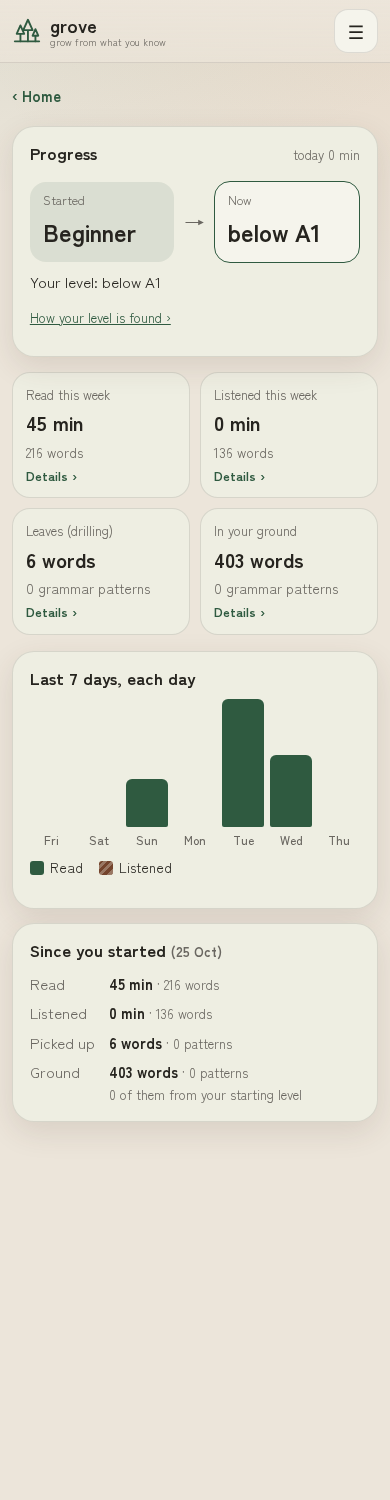
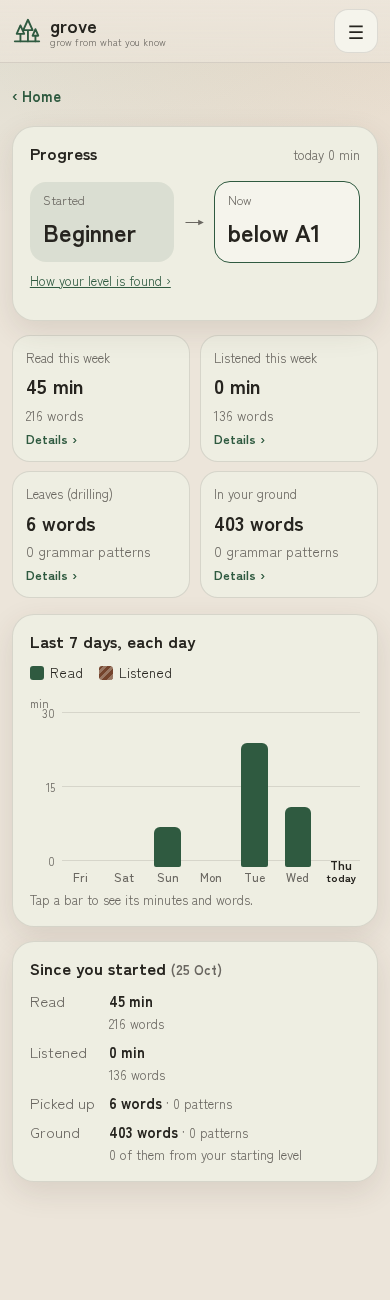
regen(client): FR-924 chart as sketched (question-pages/87); notes B-30…B-32
Claude-Session: https://claude.ai/code/session_01Q7ygod5uhQ4Fxjud2gQJY9

diff --git a/public/assets/grove.css b/public/assets/grove.css
@@ -598,7 +598,7 @@ button.link-button { background: none; border: 0; padding: 0; min-height: 44px; 
 .levels { display: flex; align-items: center; gap: .6rem; margin: .4rem 0; }
 .lv { flex: 1; display: flex; flex-direction: column; gap: .1rem; padding: .6rem .8rem; border-radius: 16px; background: var(--soft); min-width: 0; }
 .lv.now { background: var(--card2, var(--soft)); border: 1px solid var(--accent); }
-.lv .k { font-size: .78rem; color: var(--muted); }
+.lv .k { font-size: .78rem; color: var(--ink); opacity: .8; }
 .lv .v { font-size: 1.5rem; font-weight: 700; }
 .lv-arrow { font-size: 1.3rem; color: var(--muted); }
 .stat-grid { display: grid; grid-template-columns: repeat(2, minmax(0, 1fr)); gap: .6rem; margin: 0 0 1rem; }
@@ -644,3 +644,18 @@ button.week-bar { display: flex; flex-direction: column; justify-content: flex-e
 .day-list li, .item-list li { display: flex; flex-wrap: wrap; gap: .2rem .7rem; padding: .4rem 0; border-bottom: 1px solid var(--line); }
 .day-list .d { font-weight: 700; min-width: 4rem; }
 .item-list .when { margin-left: auto; }
+.week-plot { position: relative; display: grid; grid-template-columns: 2rem minmax(0, 1fr); height: 190px; margin: .6rem 0 .3rem; }
+.week-axis { position: relative; height: calc(100% - 2.6rem); margin-top: 1.2rem; font-size: .72rem; color: var(--muted); font-variant-numeric: tabular-nums; }
+.week-axis .unit { position: absolute; top: -1.2rem; left: 0; }
+.week-axis .tick { position: absolute; right: .4rem; transform: translateY(50%); }
+.week-grid { position: absolute; left: 2rem; right: 0; top: 1.2rem; height: calc(100% - 2.6rem); pointer-events: none; }
+.week-grid .gridline { position: absolute; left: 0; right: 0; border-top: 1px solid var(--line); }
+.week-plot .week-bars { height: 100%; margin: 0; grid-column: 2; }
+.week-bar .bar-area { display: flex; align-items: flex-end; justify-content: center; height: calc(100% - 2.6rem); margin-top: 1.2rem; }
+.week-bar .stack-wrap { position: relative; display: flex; width: 70%; max-width: 2.6rem; height: var(--h); min-height: 2px; }
+.week-plot .week-bar .stack { width: 100%; height: 100%; }
+.week-bar .total { position: absolute; bottom: 100%; left: 0; right: 0; text-align: center; font-size: .75rem; font-weight: 700; color: var(--ink); padding-bottom: .1rem; font-variant-numeric: tabular-nums; }
+.week-bar .bar-label { display: flex; flex-direction: column; align-items: center; line-height: 1.15; }
+.week-bar .bar-label.today { font-weight: 700; color: var(--ink); }
+.week-bar .today-tag { font-size: .68rem; font-weight: 700; }
+.week-readout { margin: .3rem 0 0; }

diff --git a/public/progress.html b/public/progress.html
@@ -21,7 +21,7 @@
 <section class="card progress-head">
 <div class="card-head"><h2>Progress</h2><span class="small muted" id="progress-today"></span></div>
 <div class="levels" id="progress-levels"></div>
-<p id="progress-level"></p>
+<p class="message bad" id="progress-error" role="alert" hidden></p>
 <p class="small"><a href="#level" id="to-level">How your level is found ›</a></p>
 </section>
 <div class="stat-grid" id="progress-stats"></div>

diff --git a/specs/009-home-sessions/spec.md b/specs/009-home-sessions/spec.md
@@ -261,7 +261,7 @@ MUST for must-priority combined requirements, SHOULD for should-priority ones. E
 
 **Progress** (B-27; sketch picked on question-pages/87)
 
-- **FR-924** (RQ-448, RQ-03; N-29, N-36, N-42): **Progress** (`/progress`) MUST show, in this order (the picked sketch, version B, `prototypes/sketches/2026-10-29-progress/`): (1) a card with "Progress", today's minutes ("today N min", all input as G-04 FR-415 counts it), and two boxes, **Started** (the starting level, or "Beginner", and the day it was set) → **Now** (FR-414's level, or "below A1"; grove keeps no day for reaching it), with "How your level is found ›" opening the level details (each level's share of words in the ground and the 90% rule); (2) four cards, two per row up to 600 px and four in a row above, each a button opening its details: **Read this week** and **Listened this week** (minutes in the last 7 days ending today, with the words of the texts read or heard underneath), **Leaves (drilling)** (the drilled leaves now: words and phrases, with grammar patterns underneath) and **In your ground** (words and phrases in the ground, with grammar patterns underneath); (3) "Last 7 days, each day": one bar per day ending today, read and listened stacked, told apart by a legend and a pattern on listening as well as by colour, a tap on a bar showing that day's minutes and words; (4) "Since you started (date)": read and listened (minutes, words), ever picked up (words, patterns: every leaf ever drilled, fallen ones included) and the ground (words, patterns) with "N of them from your starting level". The details are: the days (each of the 7 days, read and listened, minutes and words); words and patterns, with Leaves and Ground tabs (counts, "+N in the last 7 days", the latest picked up or fallen, and for the ground a bar of where its words came from: the starting level, known when read, fell from leaves); the level. Words are counted as each text's words once, when it is first finished; minutes as FR-925 records them. A new learner sees zeros and "Nothing yet" with a way to Discover. Replaces G-04 FR-415's Progress part (the 14 day bars, the ground's size and the drilled count). The Progress tile's line is "What you've read and heard, your words, and your level since you started."
+- **FR-924** (RQ-448, RQ-03; N-29, N-36, N-42): **Progress** (`/progress`) MUST show, in this order (the picked sketch, version B, `prototypes/sketches/2026-10-29-progress/`): (1) a card with "Progress", today's minutes ("today N min", all input as G-04 FR-415 counts it), and two boxes, **Started** (the starting level, or "Beginner", and the day it was set) → **Now** (FR-414's level, or "below A1"; grove keeps no day for reaching it), with "How your level is found ›" opening the level details, and nothing else in the card (the old level line is gone; screen readers get the level from the two boxes) (each level's share of words in the ground and the 90% rule); (2) four cards, two per row up to 600 px and four in a row above, each a button opening its details: **Read this week** and **Listened this week** (minutes in the last 7 days ending today, with the words of the texts read or heard underneath), **Leaves (drilling)** (the drilled leaves now: words and phrases, with grammar patterns underneath) and **In your ground** (words and phrases in the ground, with grammar patterns underneath); (3) "Last 7 days, each day": the legend above; one bar per day ending today, read and listened stacked, told apart by a pattern on listening as well as by colour, on a minute scale with grid lines, each day's total minutes above its bar and today marked "today" under its name; "Tap a bar to see its minutes and words" under the chart, replaced by that day's minutes and words when a bar is tapped (question-pages/87, after the side-by-side); (4) "Since you started (date)": read and listened (minutes, with the words on a line under them), ever picked up (words, patterns: every leaf ever drilled, fallen ones included) and the ground (words, patterns) with "N of them from your starting level". The details are: the days (each of the 7 days, read and listened, minutes and words); words and patterns, with Leaves and Ground tabs (counts, "+N in the last 7 days", the latest picked up or fallen, and for the ground a bar of where its words came from: the starting level, known when read, fell from leaves); the level. Words are counted as each text's words once, when it is first finished; minutes as FR-925 records them. A new learner sees zeros and "Nothing yet" with a way to Discover. Replaces G-04 FR-415's Progress part (the 14 day bars, the ground's size and the drilled count). The Progress tile's line is "What you've read and heard, your words, and your level since you started."
 - **FR-925** (RQ-448, RQ-48; N-29, N-42): Input minutes (G-04 FR-415) MUST be recorded per kind as well as in total: **reading** while a reading text is in view (or a listening text shown as text), **listening** while a listening text is in listening mode or a session plays a text, and **other** (reviews, harder questions, the starting check) otherwise; the page reports the kind with each half minute. A leaf's **picked up** time is when it was first drilled. A migration keeps every learner's data: existing minutes count as reading, a leaf's picked-up time is its added time, and the starting level's day is the one already kept (constitution 4.13).
 
 **The way back** (addendum 006)

diff --git a/docs/regeneration-log.md b/docs/regeneration-log.md
@@ -65,3 +65,4 @@ One entry per `/regenerate` run.
 | 2026-10-29 | store | specs/009-home-sessions data model, migration 019 (B-27; FR-924, FR-925): input_days.read_seconds, listen_seconds (earlier minutes as reading); words.picked_at (drilled or fallen leaves: added_at); learner_settings.start_level_at (the account's creation) | `tests/store/store.test.mjs` 1 new | store (25) | 25 | 0 | committed |
 | 2026-10-29 | drill, demo | G-09 FR-924, FR-925 (B-27, question-pages/87; G-04 FR-415): `/api/progress` gives today, the level started and now with each level's share, the last 7 days read and listened (minutes, words), leaves and ground (words, patterns, last 7 days, ever, where the ground's words came from, recent), since the start; `/api/input` takes a kind; a leaf's picked-up time set when first drilled; the demo's leaves get picked-up times and its minutes count as reading | `tests/drill/progress.test.mjs` FR-924 (replaces FR-415's 14-day test), FR-925 (new), FR-419 (new shape); `tests/demo/history.test.mjs` (the week instead of 14 days) | all unit (391) | 391 | 0 | committed; the page in regen(client) |
 | 2026-10-29 | client, drill | G-09 FR-924 (version B: started → now and today; four cards opening details by #days, #leaves, #ground, #level with ‹ Progress; the last 7 days stacked, listening striped; since you started), FR-925 (each half minute sent with its kind: listening while listening mode is open, reading on a text otherwise, other elsewhere), the Progress tile's line; `/api/progress`'s Now is the shown level (G-06 FR-605) | `tests/e2e/drill.spec.mjs` FR-924 (replaces the 14-day test), `tests/e2e/pages.spec.mjs` FR-910 (today's minutes) | all unit (391); drill, pages, levels, home browser (40) | 391; 39, then FR-917 passed 3 of 3 alone | 1 flaky: home FR-917 (the common dictionary search) in the run of four files | committed |
+| 2026-10-29 | client | G-09 FR-924 as changed after the side by side (question-pages/87): the chart's legend above, a minute scale with grid lines, each day's total, today marked, the hint and readout; no extra level line; words under minutes in Since you started; the level label's contrast | `tests/e2e/drill.spec.mjs` FR-924 (the chart parts), `tests/e2e/levels.spec.mjs` (the Now box instead of the old line), `tests/e2e/demo.spec.mjs` (the 7 days) | all unit (391); all browser (146) | 391; 138, then the 8 failures: 6 fixed (contrast: the Started label 4.4:1; demo: the old bars) and passed, 2 flaky (home FR-917, FR-920) passed alone | committed |

diff --git a/docs/reviews/2026-10-29-branch-test.md b/docs/reviews/2026-10-29-branch-test.md
@@ -42,4 +42,7 @@ State tested: the branch after question-pages/76 and 77 were applied (three-grou
 | B-27 | Progress | "Progress page should have: 1) how much you've read a) ever b) this week c) on each day this week 2) how much you listened 3) how many words/grammar patterns you've picked up for drilling 4) how many words/grammar patterns you've gotten in your ground 5) your starting level vs your current level." Sketched; version B picked (question-pages/87). | decided; G-09 FR-924, FR-925 (RQ-448) |
 | B-28 | Dictionary | "Dict should have both 'pick up' and 'let fall'. These should be two sides of the same button, which is on the right hand side of the current div." One toggle per word row at its right: Pick up (ground → leaf) on one side, Let it fall (leaf → ground) on the other. Changes G-03 FR-316 and G-04 FR-410, FR-411. Sketched; version B picked (question-pages/88). | decided; spec to write |
 | B-29 | Process (UI prototyping) | "I need a new much more lightweight way of prototyping new UI. Make a 50 question page that outlines how it would work." A process change, not an app change. At the owner's word ("make it a html page where i answer"), the 50 questions are on an answer page: https://claude.ai/artifact/A6MHiSmGi7kwuqnAeHJmXL Answered: question-pages/84; the process is `docs/sketching.md`. | decided; process in place |
+| B-30 | Learning → Review (nothing due) | "'Learning > Review' path when no texts selected says 'There is nothing to practice right now'. However, it does not give you the option of adding texts ... or that you should go to Discover." The nothing-to-do message should offer a way on: Add a text, and Discover. | to sort |
+| B-31 | Reading page in a session | "In reading sessions: remove the '2 new' thing. If a user doesn't know a word they will add it themselves." The text's stats line ("N words · 2 new (95% known)") drops the new-words count. | to sort |
+| B-32 | Reading page in a session | "In reading sessions: don't have the listen option; it's a reading session." A reading exercise in a session shows no Listen button. | to sort |
 

diff --git a/question-pages/87-sketch-progress.md b/question-pages/87-sketch-progress.md
@@ -31,3 +31,10 @@ Screenshots: `prototypes/sketches/2026-10-29-progress/picked.png` (version B, th
 3. Since you started: the sketch puts the words on their own line under the minutes; the build puts them after "·".
 4. The demo learner shows "Listened 0 min · 136 words": its history has a listening text read but its minutes count as reading.
 
+### After the side by side: make the chart match the sketch? (default: yes)
+
+- Yes, match the sketch (Recommended): the scale, the totals, "today" and the hint; also no extra level line, and words on their own line under the minutes
+- Keep it as built
+
+**Answer:** Yes, match the sketch. Applied to FR-924 (3), (1), (4).
+
